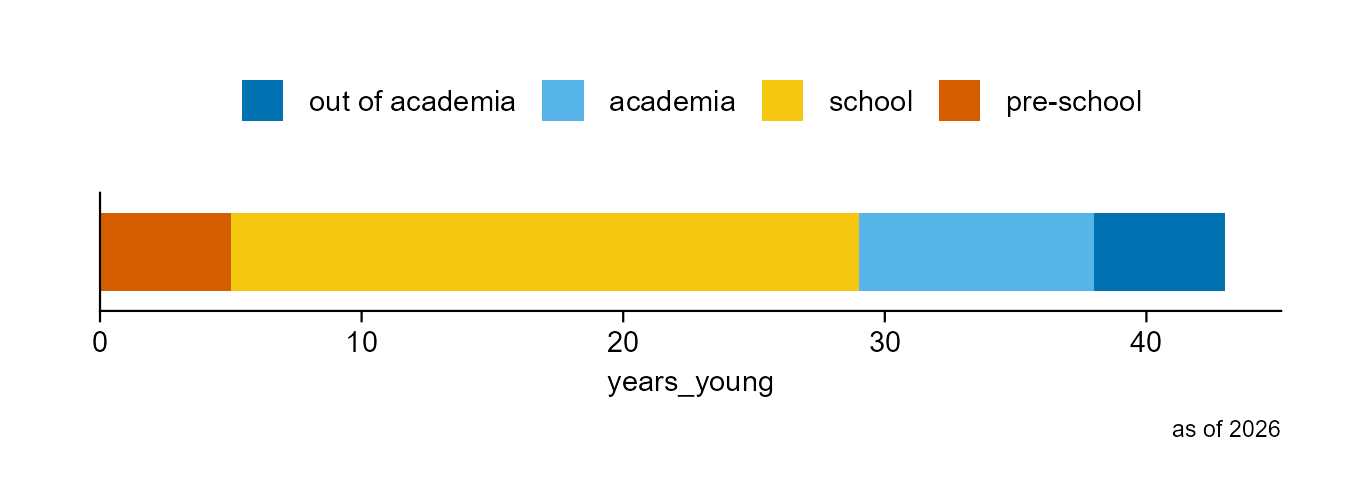
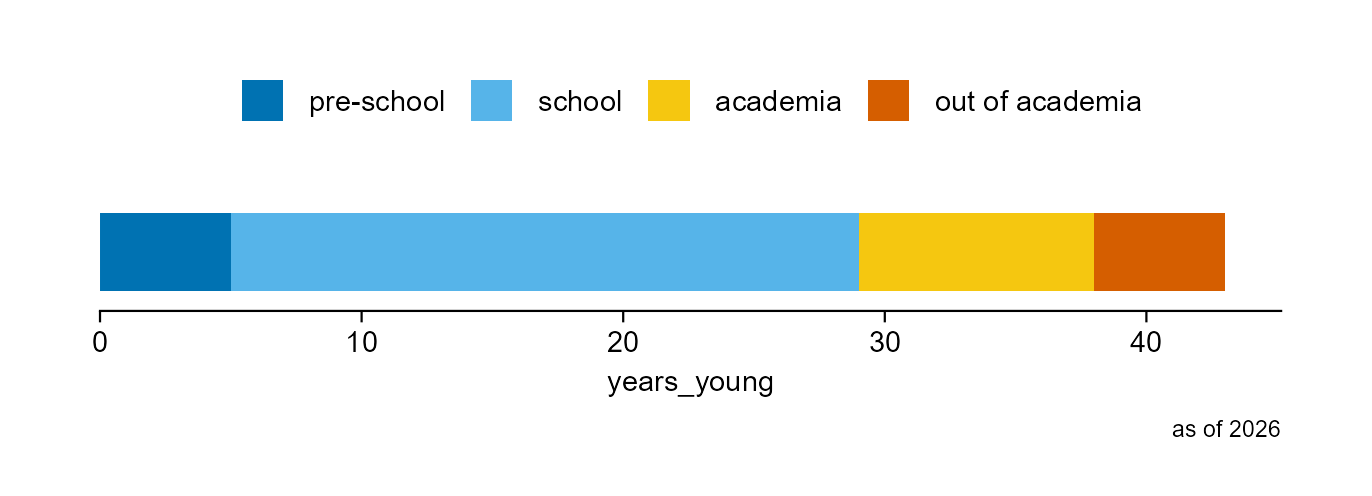
index_legend_reverse

Changed region(s): [[0.0612, 0.4234, 0.9184, 0.6048], [0.2143, 0.1512, 0.8265, 0.2419]]

diff --git a/index.html b/index.html
@@ -371,28 +371,26 @@ gtag('config', 'G-PK8EEJETTK', { 'anonymize_ip': true});
 <span id="cb1-13"><a href="#cb1-13"></a>  <span class="at">years_young =</span> years_young,</span>
 <span id="cb1-14"><a href="#cb1-14"></a>  <span class="at">tag =</span> <span class="fu">factor</span>(</span>
 <span id="cb1-15"><a href="#cb1-15"></a>    <span class="at">x =</span> tag,</span>
-<span id="cb1-16"><a href="#cb1-16"></a>    <span class="at">level =</span> tag</span>
-<span id="cb1-17"><a href="#cb1-17"></a>  )</span>
-<span id="cb1-18"><a href="#cb1-18"></a>)</span>
-<span id="cb1-19"><a href="#cb1-19"></a></span>
-<span id="cb1-20"><a href="#cb1-20"></a><span class="co"># Plot</span></span>
-<span id="cb1-21"><a href="#cb1-21"></a>df <span class="sc">|&gt;</span> </span>
-<span id="cb1-22"><a href="#cb1-22"></a>  <span class="fu">tidyplot</span>(</span>
-<span id="cb1-23"><a href="#cb1-23"></a>    <span class="at">x =</span> years_young, </span>
-<span id="cb1-24"><a href="#cb1-24"></a>    <span class="at">color =</span> tag) <span class="sc">|&gt;</span> </span>
-<span id="cb1-25"><a href="#cb1-25"></a>  <span class="fu">add_barstack_absolute</span>() <span class="sc">|&gt;</span>   </span>
-<span id="cb1-26"><a href="#cb1-26"></a>  <span class="fu">add_caption</span>(<span class="at">caption =</span> <span class="fu">paste</span>(<span class="st">"as of"</span>, current_year)) <span class="sc">|&gt;</span> </span>
-<span id="cb1-27"><a href="#cb1-27"></a>  <span class="fu">adjust_size</span>(</span>
-<span id="cb1-28"><a href="#cb1-28"></a>    <span class="at">width =</span> <span class="dv">100</span>, </span>
-<span id="cb1-29"><a href="#cb1-29"></a>    <span class="at">height =</span> <span class="dv">10</span>) <span class="sc">|&gt;</span> </span>
-<span id="cb1-30"><a href="#cb1-30"></a>  <span class="fu">adjust_legend_position</span>(<span class="at">position =</span> <span class="st">"top"</span>) <span class="sc">|&gt;</span> </span>
-<span id="cb1-31"><a href="#cb1-31"></a>  <span class="fu">reverse_color_levels</span>() <span class="sc">|&gt;</span> </span>
-<span id="cb1-32"><a href="#cb1-32"></a>  <span class="fu">remove_legend_title</span>() <span class="sc">|&gt;</span> </span>
-<span id="cb1-33"><a href="#cb1-33"></a>  <span class="fu">remove_y_axis_title</span>() <span class="sc">|&gt;</span> </span>
-<span id="cb1-34"><a href="#cb1-34"></a>  <span class="fu">remove_y_axis_ticks</span>() <span class="sc">|&gt;</span> </span>
-<span id="cb1-35"><a href="#cb1-35"></a>  <span class="fu">save_plot</span>(</span>
-<span id="cb1-36"><a href="#cb1-36"></a>    <span class="at">filename =</span> <span class="st">"images/wk_barstack-absolute.png"</span>,</span>
-<span id="cb1-37"><a href="#cb1-37"></a>    <span class="at">view_plot =</span> <span class="cn">FALSE</span>)</span></code></pre></div><button title="Copy to Clipboard" class="code-copy-button"><i class="bi"></i></button></div>
+<span id="cb1-16"><a href="#cb1-16"></a>    <span class="at">level =</span> tag))</span>
+<span id="cb1-17"><a href="#cb1-17"></a></span>
+<span id="cb1-18"><a href="#cb1-18"></a><span class="co"># Plot</span></span>
+<span id="cb1-19"><a href="#cb1-19"></a>df <span class="sc">|&gt;</span> </span>
+<span id="cb1-20"><a href="#cb1-20"></a>  <span class="fu">tidyplot</span>(</span>
+<span id="cb1-21"><a href="#cb1-21"></a>    <span class="at">x =</span> years_young, </span>
+<span id="cb1-22"><a href="#cb1-22"></a>    <span class="at">color =</span> tag) <span class="sc">|&gt;</span> </span>
+<span id="cb1-23"><a href="#cb1-23"></a>  <span class="fu">add_barstack_absolute</span>(<span class="at">reverse =</span> <span class="cn">TRUE</span>) <span class="sc">|&gt;</span>   </span>
+<span id="cb1-24"><a href="#cb1-24"></a>  <span class="fu">add_caption</span>(<span class="at">caption =</span> <span class="fu">paste</span>(<span class="st">"as of"</span>, current_year)) <span class="sc">|&gt;</span> </span>
+<span id="cb1-25"><a href="#cb1-25"></a>  <span class="fu">adjust_size</span>(</span>
+<span id="cb1-26"><a href="#cb1-26"></a>    <span class="at">width =</span> <span class="dv">100</span>, </span>
+<span id="cb1-27"><a href="#cb1-27"></a>    <span class="at">height =</span> <span class="dv">10</span>) <span class="sc">|&gt;</span> </span>
+<span id="cb1-28"><a href="#cb1-28"></a>  <span class="fu">adjust_legend_position</span>(<span class="at">position =</span> <span class="st">"top"</span>) <span class="sc">|&gt;</span>  </span>
+<span id="cb1-29"><a href="#cb1-29"></a>  <span class="fu">remove_legend_title</span>() <span class="sc">|&gt;</span> </span>
+<span id="cb1-30"><a href="#cb1-30"></a>  <span class="fu">remove_y_axis_title</span>() <span class="sc">|&gt;</span> </span>
+<span id="cb1-31"><a href="#cb1-31"></a>  <span class="fu">remove_y_axis_ticks</span>() <span class="sc">|&gt;</span> </span>
+<span id="cb1-32"><a href="#cb1-32"></a>  <span class="fu">remove_y_axis_line</span>() <span class="sc">|&gt;</span> </span>
+<span id="cb1-33"><a href="#cb1-33"></a>  <span class="fu">save_plot</span>(</span>
+<span id="cb1-34"><a href="#cb1-34"></a>    <span class="at">filename =</span> <span class="st">"images/wk_barstack-absolute.png"</span>,</span>
+<span id="cb1-35"><a href="#cb1-35"></a>    <span class="at">view_plot =</span> <span class="cn">FALSE</span>)</span></code></pre></div><button title="Copy to Clipboard" class="code-copy-button"><i class="bi"></i></button></div>
 </details>
 </div>
 <div class="quarto-figure quarto-figure-center">

diff --git a/nutrition/maybe_good_sentences_beyond_biology/index.html b/nutrition/maybe_good_sentences_beyond_biology/index.html
@@ -7,7 +7,7 @@
 <meta name="viewport" content="width=device-width, initial-scale=1.0, user-scalable=yes">
 
 <meta name="author" content="Kang Wu">
-<meta name="dcterms.date" content="2026-07-17">
+<meta name="dcterms.date" content="2026-07-19">
 <meta name="description" content="Completely personal opinion">
 
 <title>Some good sentences beyond biology – Kang Wu/吴康</title>
@@ -334,7 +334,7 @@ gtag('config', 'G-PK8EEJETTK', { 'anonymize_ip': true});
       <div>
       <div class="quarto-title-meta-heading">Published</div>
       <div class="quarto-title-meta-contents">
-        <p class="date">July 17, 2026</p>
+        <p class="date">July 19, 2026</p>
       </div>
     </div>
     
@@ -383,6 +383,10 @@ Note
 </div>
 <section id="section" class="level2">
 <h2 class="anchored" data-anchor-id="section">2026-07</h2>
+<blockquote class="blockquote">
+<p>ggraph builds on top of tidygraph and ggplot2 to allow a complete and familiar grammar of graphics for network data. … works with another data type that is fundamentally different from tabular data. … concerned with showing the network topology more than relations between two variables. Layouts are algorithms that use the network structure to calculate (often arbitrary) x and y values for each node … for visualization purposes.</p>
+</blockquote>
+<p><a href="https://ggplot2-book.org/networks.html#visualizing-networks">ggplot2: Elegant Graphics for Data Analysis (3e)</a></p>
 <blockquote class="blockquote">
 <p>Perhaps the simplest approach to draw maps is to use <code>geom_polygon()</code> to draw doundaries for different regions.</p>
 </blockquote>
@@ -492,13 +496,13 @@ Note
 <div id="quarto-appendix" class="default"><section class="quarto-appendix-contents" id="quarto-citation"><h2 class="anchored quarto-appendix-heading">Citation</h2><div><div class="quarto-appendix-secondary-label">BibTeX citation:</div><pre class="sourceCode code-with-copy quarto-appendix-bibtex"><code class="sourceCode bibtex">@online{wu2026,
   author = {Wu, Kang},
   title = {Some Good Sentences Beyond Biology},
-  date = {2026-07-17},
+  date = {2026-07-19},
   url = {https://iamhealthy.github.io/nutrition/maybe_good_sentences_beyond_biology/},
   langid = {en}
 }
 </code><button title="Copy to Clipboard" class="code-copy-button"><i class="bi"></i></button></pre><div class="quarto-appendix-secondary-label">For attribution, please cite this work as:</div><div id="ref-wu2026" class="csl-entry quarto-appendix-citeas" role="listitem">
 Wu, Kang. 2026. <span>“Some Good Sentences Beyond Biology.”</span> July
-17. <a href="https://iamhealthy.github.io/nutrition/maybe_good_sentences_beyond_biology/">https://iamhealthy.github.io/nutrition/maybe_good_sentences_beyond_biology/</a>.
+19. <a href="https://iamhealthy.github.io/nutrition/maybe_good_sentences_beyond_biology/">https://iamhealthy.github.io/nutrition/maybe_good_sentences_beyond_biology/</a>.
 </div></div></section></div></main> <!-- /main -->
 <script id="quarto-html-after-body" type="application/javascript">
   window.document.addEventListener("DOMContentLoaded", function (event) {

diff --git a/post.html b/post.html
@@ -439,7 +439,7 @@ Apr 22, 2026
 </div>
 </div></a>
 </div>
-<div class="g-col-1" data-index="2" data-categories="c2VudGVuY2Vz" data-listing-date-sort="1784268776000" data-listing-file-modified-sort="1784268776217" data-listing-date-modified-sort="NaN" data-listing-reading-time-sort="3" data-listing-word-count-sort="410">
+<div class="g-col-1" data-index="2" data-categories="c2VudGVuY2Vz" data-listing-date-sort="1784453294000" data-listing-file-modified-sort="1784453294365" data-listing-date-modified-sort="NaN" data-listing-reading-time-sort="3" data-listing-word-count-sort="485">
 <a href="./nutrition/maybe_good_sentences_beyond_biology/index.html" class="quarto-grid-link">
 <div class="quarto-grid-item card h-100 card-left">
 <p class="card-img-top">
@@ -462,7 +462,7 @@ Some good sentences beyond biology
 Kang Wu
 </div>
 <div class="listing-date">
-Jul 17, 2026
+Jul 19, 2026
 </div>
 </div>
 </div>
